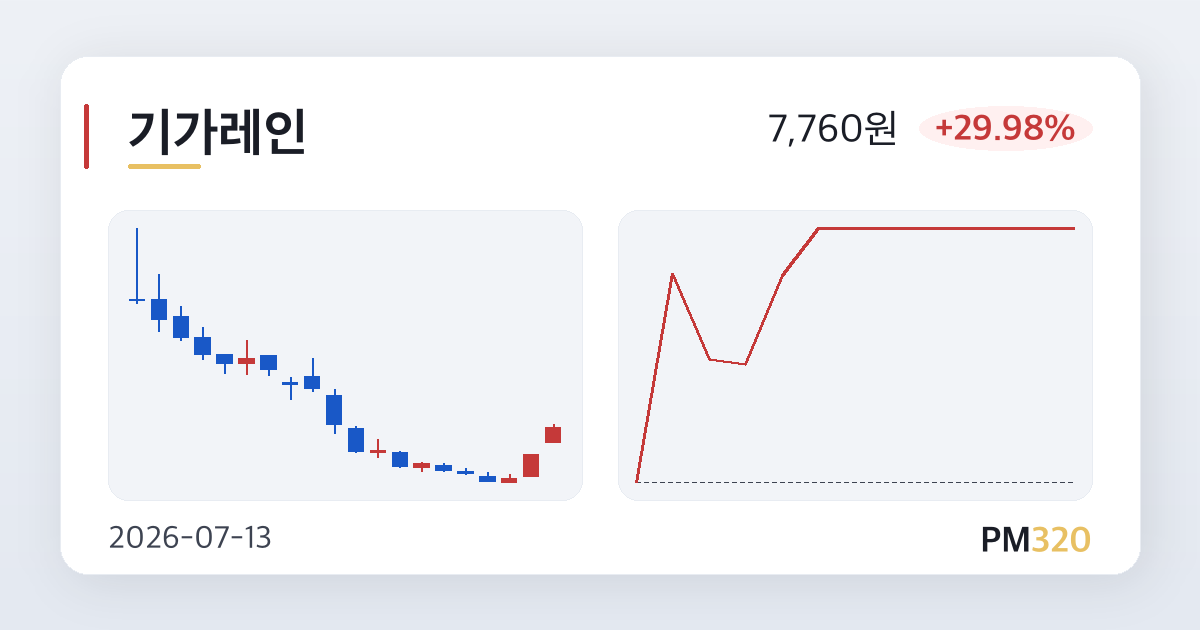
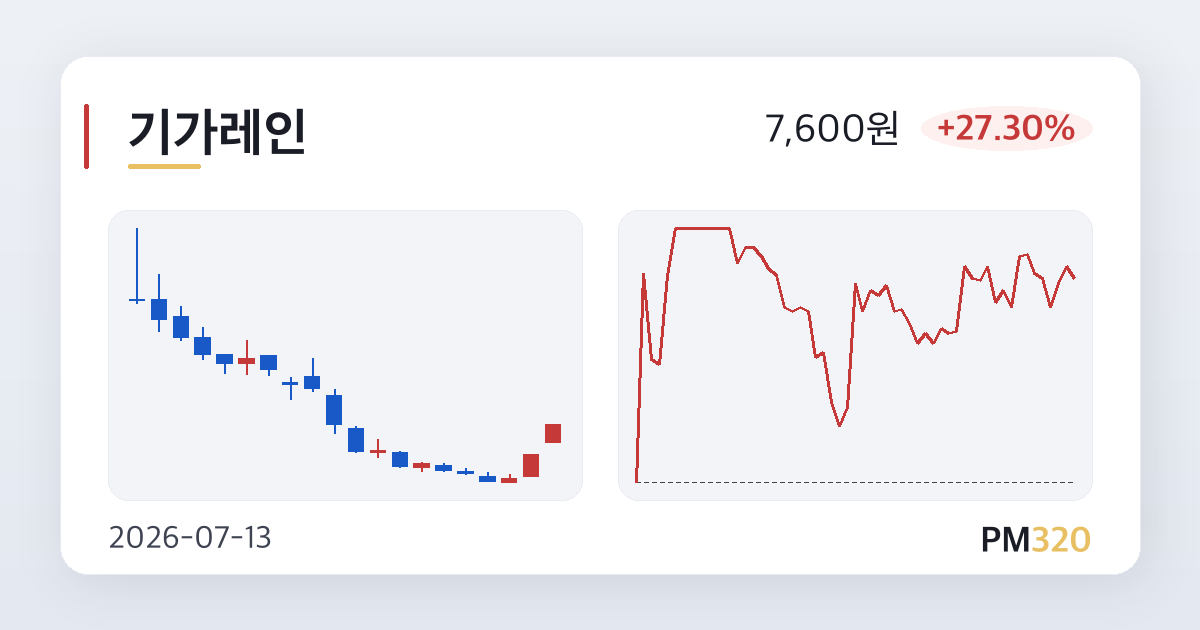
chore(kiwoom): 2026-07-13T13:55 condition search update

diff --git a/pm320/2026-07-13/003280.html b/pm320/2026-07-13/003280.html
@@ -5,13 +5,13 @@
 <title>흥아해운</title>
 <meta property="og:title" content="흥아해운">
 <meta property="og:description" content="흥아해운 오늘의 종목 정보">
-<meta property="og:image" content="https://pm320.100m1s.com/og/pm320/2026-07-13/003280.png?v=1783917663">
+<meta property="og:image" content="https://pm320.100m1s.com/og/pm320/2026-07-13/003280.png?v=1783918283">
 <meta property="og:image:width" content="1200">
 <meta property="og:image:height" content="630">
 <meta property="og:url" content="https://pm320.100m1s.com/pm320/2026-07-13/003280.html">
 <meta property="og:type" content="article">
 <meta name="twitter:card" content="summary_large_image">
-<meta name="twitter:image" content="https://pm320.100m1s.com/og/pm320/2026-07-13/003280.png?v=1783917663">
+<meta name="twitter:image" content="https://pm320.100m1s.com/og/pm320/2026-07-13/003280.png?v=1783918283">
 <meta name="robots" content="index, follow">
 <script>
 (function() {

diff --git a/pm320/2026-07-13/003680.html b/pm320/2026-07-13/003680.html
@@ -5,13 +5,13 @@
 <title>한성기업</title>
 <meta property="og:title" content="한성기업">
 <meta property="og:description" content="한성기업 오늘의 종목 정보">
-<meta property="og:image" content="https://pm320.100m1s.com/og/pm320/2026-07-13/003680.png?v=1783917663">
+<meta property="og:image" content="https://pm320.100m1s.com/og/pm320/2026-07-13/003680.png?v=1783918283">
 <meta property="og:image:width" content="1200">
 <meta property="og:image:height" content="630">
 <meta property="og:url" content="https://pm320.100m1s.com/pm320/2026-07-13/003680.html">
 <meta property="og:type" content="article">
 <meta name="twitter:card" content="summary_large_image">
-<meta name="twitter:image" content="https://pm320.100m1s.com/og/pm320/2026-07-13/003680.png?v=1783917663">
+<meta name="twitter:image" content="https://pm320.100m1s.com/og/pm320/2026-07-13/003680.png?v=1783918283">
 <meta name="robots" content="index, follow">
 <script>
 (function() {

diff --git a/pm320/2026-07-13/044340.html b/pm320/2026-07-13/044340.html
@@ -5,13 +5,13 @@
 <title>위닉스</title>
 <meta property="og:title" content="위닉스">
 <meta property="og:description" content="&quot;한증막 더위&quot; 파세코·위닉스 동반 급등[특징주]">
-<meta property="og:image" content="https://pm320.100m1s.com/og/pm320/2026-07-13/044340.png?v=1783917663">
+<meta property="og:image" content="https://pm320.100m1s.com/og/pm320/2026-07-13/044340.png?v=1783918283">
 <meta property="og:image:width" content="1200">
 <meta property="og:image:height" content="630">
 <meta property="og:url" content="https://pm320.100m1s.com/pm320/2026-07-13/044340.html">
 <meta property="og:type" content="article">
 <meta name="twitter:card" content="summary_large_image">
-<meta name="twitter:image" content="https://pm320.100m1s.com/og/pm320/2026-07-13/044340.png?v=1783917663">
+<meta name="twitter:image" content="https://pm320.100m1s.com/og/pm320/2026-07-13/044340.png?v=1783918283">
 <meta name="robots" content="index, follow">
 <script>
 (function() {

diff --git a/pm320/2026-07-13/049080.html b/pm320/2026-07-13/049080.html
@@ -5,13 +5,13 @@
 <title>기가레인</title>
 <meta property="og:title" content="기가레인">
 <meta property="og:description" content="기가레인 오늘의 종목 정보">
-<meta property="og:image" content="https://pm320.100m1s.com/og/pm320/2026-07-13/049080.png?v=1783905058">
+<meta property="og:image" content="https://pm320.100m1s.com/og/pm320/2026-07-13/049080.png?v=1783918283">
 <meta property="og:image:width" content="1200">
 <meta property="og:image:height" content="630">
 <meta property="og:url" content="https://pm320.100m1s.com/pm320/2026-07-13/049080.html">
 <meta property="og:type" content="article">
 <meta name="twitter:card" content="summary_large_image">
-<meta name="twitter:image" content="https://pm320.100m1s.com/og/pm320/2026-07-13/049080.png?v=1783905058">
+<meta name="twitter:image" content="https://pm320.100m1s.com/og/pm320/2026-07-13/049080.png?v=1783918283">
 <meta name="robots" content="index, follow">
 <script>
 (function() {

diff --git a/pm320/2026-07-13/322780.html b/pm320/2026-07-13/322780.html
@@ -5,13 +5,13 @@
 <title>코퍼스코리아</title>
 <meta property="og:title" content="코퍼스코리아">
 <meta property="og:description" content="코퍼스코리아 오늘의 종목 정보">
-<meta property="og:image" content="https://pm320.100m1s.com/og/pm320/2026-07-13/322780.png?v=1783917663">
+<meta property="og:image" content="https://pm320.100m1s.com/og/pm320/2026-07-13/322780.png?v=1783918283">
 <meta property="og:image:width" content="1200">
 <meta property="og:image:height" content="630">
 <meta property="og:url" content="https://pm320.100m1s.com/pm320/2026-07-13/322780.html">
 <meta property="og:type" content="article">
 <meta name="twitter:card" content="summary_large_image">
-<meta name="twitter:image" content="https://pm320.100m1s.com/og/pm320/2026-07-13/322780.png?v=1783917663">
+<meta name="twitter:image" content="https://pm320.100m1s.com/og/pm320/2026-07-13/322780.png?v=1783918283">
 <meta name="robots" content="index, follow">
 <script>
 (function() {

diff --git a/pm320/2026-07-13/465770.html b/pm320/2026-07-13/465770.html
@@ -5,13 +5,13 @@
 <title>STX그린로지스</title>
 <meta property="og:title" content="STX그린로지스">
 <meta property="og:description" content="STX그린로지스 오늘의 종목 정보">
-<meta property="og:image" content="https://pm320.100m1s.com/og/pm320/2026-07-13/465770.png?v=1783917663">
+<meta property="og:image" content="https://pm320.100m1s.com/og/pm320/2026-07-13/465770.png?v=1783918283">
 <meta property="og:image:width" content="1200">
 <meta property="og:image:height" content="630">
 <meta property="og:url" content="https://pm320.100m1s.com/pm320/2026-07-13/465770.html">
 <meta property="og:type" content="article">
 <meta name="twitter:card" content="summary_large_image">
-<meta name="twitter:image" content="https://pm320.100m1s.com/og/pm320/2026-07-13/465770.png?v=1783917663">
+<meta name="twitter:image" content="https://pm320.100m1s.com/og/pm320/2026-07-13/465770.png?v=1783918283">
 <meta name="robots" content="index, follow">
 <script>
 (function() {